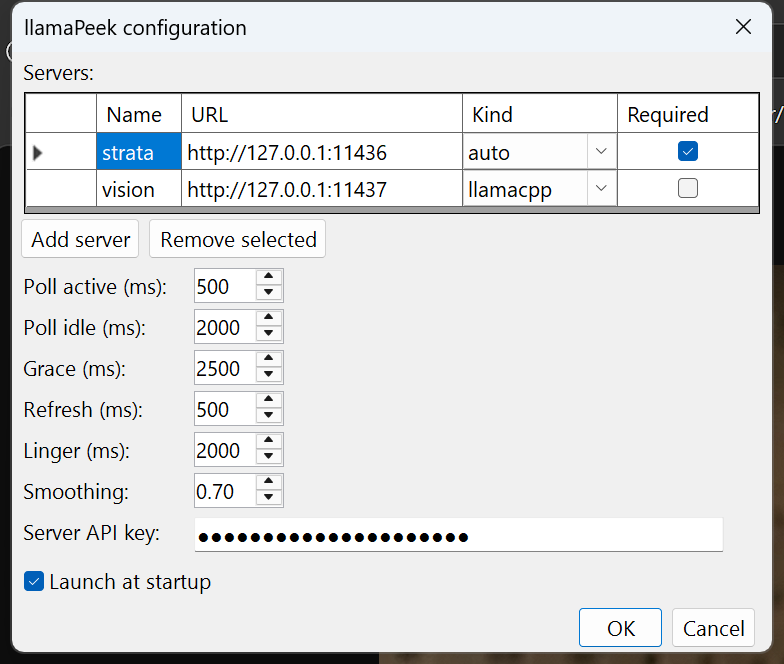
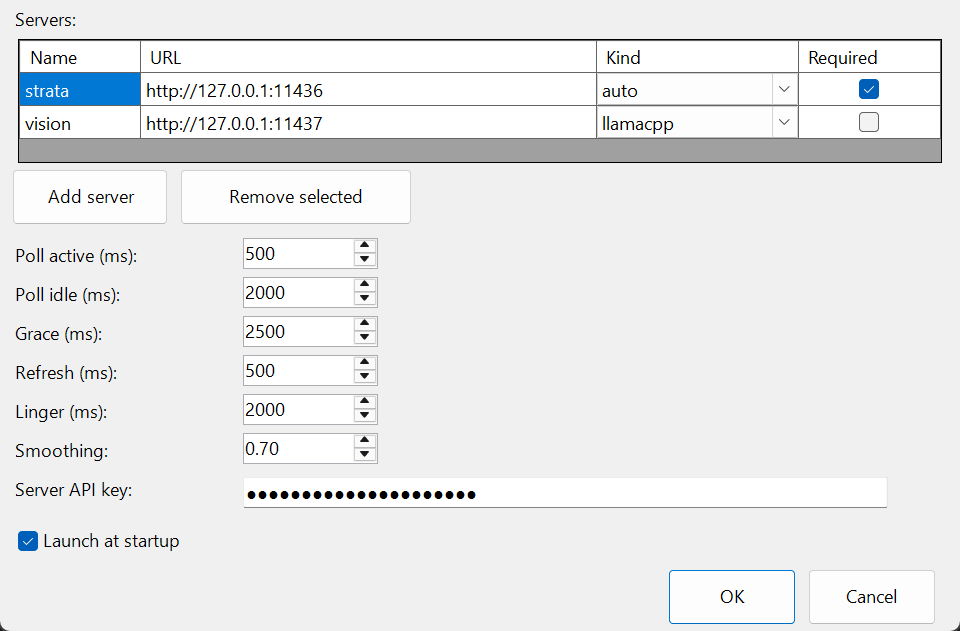
0.1.1: config dialog DPI scaling, grid full-width no clipping, content-sized 640px; sandbox registry tests

Changed region(s): [[0.0, 0.0, 1.0, 1.0]]

diff --git a/src/LlamaPeek.Tray/SettingsForm.cs b/src/LlamaPeek.Tray/SettingsForm.cs
@@ -20,6 +20,13 @@ public sealed class SettingsForm : Form
     private readonly CheckBox _startup = new()
     { Text = "Launch at startup", AutoSize = true, Margin = new Padding(4, 8, 0, 4) };
 
+    private readonly TableLayoutPanel _gridPanel = new()
+    {
+        Dock = DockStyle.Fill,
+        ColumnCount = 1,
+        Margin = new Padding(0),
+    };
+
     public SettingsForm(AppSettings s, string? apiKey)
     {
         Text = "llamaPeek configuration";
@@ -27,13 +34,21 @@ public sealed class SettingsForm : Form
         MaximizeBox = false; MinimizeBox = false;
         StartPosition = FormStartPosition.CenterScreen;
         Font = new Font("Segoe UI", 9f);
-        // Fixed dialog at design size — AutoScaleMode.Font scales it to the
-        // runtime DPI exactly once (do NOT pre-multiply by DeviceDpi: that
-        // double-scales and leaves dead space). The percent grid row absorbs
-        // any slack, so no dead space appears under the buttons.
-        ClientSize = new Size(760, 600);
-        AutoScroll = true;   // safety net if a DPI/font combo overflows
-        _apiKey.Text = apiKey ?? "";
+        // DPI scaling: baseline is 96dpi (assigned at the END of the ctor,
+        // after all controls exist), so every size, margin and column below
+        // is multiplied by DeviceDpi/96 exactly once. AutoScaleMode.Font
+        // cannot be used: its baseline is captured at the *current* DPI,
+        // giving factor 1.0 — fonts scaled, layout stayed at design pixels.
+        AutoScaleMode = AutoScaleMode.Dpi;
+        // Design size at 96dpi, sized to content: the 12 AutoSize rows need
+        // ~405px, so 440 leaves a modest grid expansion instead of a huge
+        // percent-row balloon at high DPI.
+        ClientSize = new Size(760, 440);
+        // No AutoScroll: the dialog is FixedDialog and content-sized, and
+        // AutoScroll clips the layout (grid flush to the frame) when the
+        // content minimum width exceeds the client by a few pixels.
+        _existingKey = apiKey ?? "";
+        _apiKey.Text = _existingKey;
 
         BuildGrid(s.Servers);
         _pollActive.Value = s.PollActiveMs;
@@ -51,13 +66,10 @@ public sealed class SettingsForm : Form
             Padding = new Padding(8, 4, 8, 4),
             ColumnCount = 2,
         };
-        root.ColumnStyles.Add(new ColumnStyle(SizeType.Absolute, 170));
+        root.ColumnStyles.Add(new ColumnStyle(SizeType.Absolute, 150));
         root.ColumnStyles.Add(new ColumnStyle(SizeType.Percent, 100));
         // Row styles are indexed by row number — declare every row explicitly.
         for (int i = 0; i < 12; i++) root.RowStyles.Add(new RowStyle(SizeType.AutoSize));
-        // Grid row takes ALL slack (Percent), so any height surplus lands inside
-        // the table, not as dead space under the buttons.
-        root.RowStyles[1] = new RowStyle(SizeType.Percent, 100);
         int row = 0;
 
         var head = Head("Servers:");
@@ -65,19 +77,14 @@ public sealed class SettingsForm : Form
         root.SetColumnSpan(head, 2);
         root.Controls.Add(head, 0, row++);
 
-        // Grid + its buttons share one percent row: the grid's MinimumSize
+        // Grid + its buttons share one row: the grid's MinimumSize
         // shrinks the grid inside this panel, never clipping the buttons.
-        var gridPanel = new TableLayoutPanel
-        {
-            Dock = DockStyle.Fill,
-            ColumnCount = 1,
-            Margin = new Padding(0),
-        };
-        gridPanel.RowStyles.Add(new RowStyle(SizeType.Percent, 100));
-        gridPanel.RowStyles.Add(new RowStyle(SizeType.AutoSize));
+        _gridPanel.MinimumSize = new Size(0, _gridRowsHeight + 34);  // grid rows + button strip
+        _gridPanel.RowStyles.Add(new RowStyle(SizeType.Percent, 100));
+        _gridPanel.RowStyles.Add(new RowStyle(SizeType.AutoSize));
 
         _grid.Margin = new Padding(4, 2, 4, 2);
-        gridPanel.Controls.Add(_grid, 0, 0);
+        _gridPanel.Controls.Add(_grid, 0, 0);
 
         var gridButtons = new FlowLayoutPanel { AutoSize = true, Margin = new Padding(0, 2, 0, 6) };
         gridButtons.Controls.Add(MakeButton("Add server",
@@ -87,10 +94,10 @@ public sealed class SettingsForm : Form
             if (_grid.CurrentRow is not null && !_grid.CurrentRow.IsNewRow)
                 _grid.Rows.Remove(_grid.CurrentRow);
         }));
-        gridPanel.Controls.Add(gridButtons, 0, 1);
+        _gridPanel.Controls.Add(gridButtons, 0, 1);
 
-        root.SetColumnSpan(gridPanel, 2);
-        root.Controls.Add(gridPanel, 0, row++);
+        root.SetColumnSpan(_gridPanel, 2);
+        root.Controls.Add(_gridPanel, 0, row++);
 
         void AddNumRow(string label, NumericUpDown num)
         {
@@ -135,26 +142,90 @@ public sealed class SettingsForm : Form
         Controls.Add(root);
         CancelButton = cancel;
         AcceptButton = ok;
+
+        // Scale the finished tree once (96dpi baseline), THEN size the form:
+        // PreferredSize is now measured in runtime pixels on the scaled tree,
+        // so no division is needed and nothing can double-scale.
+        AutoScaleDimensions = new SizeF(96F, 96F);
+        ClientSize = new Size(
+            (int)Math.Round(640F * DeviceDpi / 96F),   // 640 design px
+            root.PreferredSize.Height);
+    }
+
+    /// <summary>
+    /// Self-correcting width: after the form is shown, the live-DPI layout is
+    /// final (handles created, fonts measured). If the grid's right edge sits
+    /// closer than 16px to the client edge — the Fill columns could not shrink
+    /// enough at this DPI — widen the form so every column, including
+    /// "Required", is fully readable at any Windows scaling (100–250%).
+    /// </summary>
+    protected override void OnShown(EventArgs e)
+    {
+        base.OnShown(e);
+
+        float f = DeviceDpi / 96f;
+
+        // The grid (Dock=Fill) kept a stale 1104px width from Fill mode,
+        // overflowing its 936px panel and the form. Un-dock and set explicit
+        // bounds: panel width minus margins.
+        _grid.Dock = DockStyle.None;
+        _grid.Anchor = AnchorStyles.Top | AnchorStyles.Left | AnchorStyles.Right;
+        _grid.SetBounds(_grid.Left, _grid.Top,
+            _gridPanel.ClientSize.Width - 12, _grid.Height);
+
+        // Columns Fill the grid width (no grey band on the right; Fill can
+        // shrink to MinimumWidth so no clipping). Rows/headers get compact
+        // DPI-scaled heights so cadence matches the numeric rows.
+        _grid.AutoSizeColumnsMode = DataGridViewAutoSizeColumnsMode.Fill;
+        _grid.RowTemplate.Height = (int)Math.Round(22 * f);
+        _grid.ColumnHeadersHeightSizeMode = DataGridViewColumnHeadersHeightSizeMode.DisableResizing;
+        _grid.ColumnHeadersHeight = (int)Math.Round(22 * f);
+        foreach (DataGridViewRow r in _grid.Rows) r.Height = _grid.RowTemplate.Height;
+        _gridPanel.PerformLayout();
+
+        // Belt: if the grid's right edge still exceeds the client (e.g. a
+        // font renders wider), widen the form so nothing is clipped.
+        var gridRect = _grid.RectangleToScreen(_grid.ClientRectangle);
+        int need = RectangleToClient(gridRect).Right + 16;
+        if (need > ClientSize.Width)
+            ClientSize = new Size(need, ClientSize.Height);
     }
 
     private void BuildGrid(List<ServerConfig> servers)
     {
         _grid.Dock = DockStyle.Fill;
-        _grid.MinimumSize = new Size(0, 120);   // percent row may shrink, grid may not
         _grid.AllowUserToAddRows = false;
-        _grid.AutoSizeColumnsMode = DataGridViewAutoSizeColumnsMode.Fill;
+        _grid.RowHeadersVisible = false;                 // no leading selector column
+        _grid.ScrollBars = ScrollBars.Vertical;           // explicit widths: no h-scroll
+        // Explicit DPI-scaled widths (set in OnShown) instead of Fill mode:
+        // Fill's preferred width is unstable and pushed the form past its
+        // design width. Design widths sum to 466px → fits the 640px dialog.
+        _grid.AutoSizeColumnsMode = DataGridViewAutoSizeColumnsMode.None;
         // Typed value in the Kind combo (e.g. "xyz") raises DataError; the
         // default handler shows a raw exception dialog. Swallow and revert.
         _grid.DataError += (_, e) => e.ThrowException = false;
-        _grid.Columns.Add(new DataGridViewTextBoxColumn { HeaderText = "Name", FillWeight = 12 });
-        _grid.Columns.Add(new DataGridViewTextBoxColumn { HeaderText = "URL", FillWeight = 40 });
+        // Fill mode can only shrink columns to their MinimumWidth (default
+        // 22+, combo columns more). Sum of minima exceeded the grid width at
+        // high DPI, so with no h-scroll the Required column clipped. Low
+        // minima let Fill always fit every column.
+        _grid.Columns.Add(new DataGridViewTextBoxColumn { HeaderText = "Name", FillWeight = 12, MinimumWidth = 40 });
+        _grid.Columns.Add(new DataGridViewTextBoxColumn { HeaderText = "URL", FillWeight = 45, MinimumWidth = 60 });
         _grid.Columns.Add(new DataGridViewComboBoxColumn
-        { HeaderText = "Kind", FillWeight = 22, Items = { "auto", "llamacpp", "strata" } });
+        { HeaderText = "Kind", FillWeight = 20, MinimumWidth = 50, Items = { "auto", "llamacpp", "strata" } });
         _grid.Columns.Add(new DataGridViewCheckBoxColumn
-        { HeaderText = "Required", FillWeight = 20 });
+        { HeaderText = "Required", FillWeight = 14, MinimumWidth = 40 });
         foreach (var s in servers)
             _grid.Rows.Add(s.Name, s.Url, s.Kind.ToString().ToLowerInvariant(), s.RequiresModel);
+
+        // Height that fits the rows exactly, in DESIGN pixels (the grid's
+        // handle is not created in the ctor, so row/header template heights
+        // are the design 23px; the form's AutoScale pass scales this
+        // MinimumSize by DeviceDpi/96 along with everything else).
+        _gridRowsHeight = 23 + 23 * (_grid.Rows.Count + 1) + 6;
     }
+
+    private int _gridRowsHeight = 120;
+    private readonly string _existingKey;   // key as loaded at dialog open
 
     private static Label Head(string text) =>
         new() { Text = text, AutoSize = true, Margin = new Padding(0, 5, 0, 0) };
@@ -227,6 +298,7 @@ public sealed class SettingsForm : Form
             return;
         }
 
+        // Warn when the bearer token would travel in cleartext.
         // Warn when the bearer token would travel in cleartext.
         var key = _apiKey.Text.Trim();
         if (key.Length > 0 && servers.Any(s => s.Url.StartsWith("http://", StringComparison.OrdinalIgnoreCase)))

diff --git a/src/LlamaPeek.Core/RegistryStore.cs b/src/LlamaPeek.Core/RegistryStore.cs
@@ -13,7 +13,10 @@ public static class RegistryStore
 {
     public const string RunKeyPath =
         @"Software\Microsoft\Windows\CurrentVersion\Run";
-    public const string AppKeyPath = @"Software\llamaPeek";
+    // Test hook: unit tests point this at HKCU\Software\llamaPeek-test so a
+    // test run can never clobber the user's live configuration. Production
+    // code never changes it.
+    public static string AppKeyPath { get; set; } = @"Software\llamaPeek";
     public const string RunValueName = "llamaPeek";
 
     public static AppSettings Load()

diff --git a/tests/LlamaPeek.Tests/BackoffAndRegistryTests.cs b/tests/LlamaPeek.Tests/BackoffAndRegistryTests.cs
@@ -23,8 +23,15 @@ public class BackoffTests
     }
 }
 
-public class RegistryTests
+public class RegistryTests : IDisposable
 {
+    public RegistryTests() => RegistryStore.AppKeyPath = @"Software\llamaPeek-test";
+    public void Dispose()
+    {
+        RegistryStore.DeleteAll();
+        RegistryStore.AppKeyPath = @"Software\llamaPeek";
+    }
+
     [Fact]
     public void Settings_RoundTrip()
     {

diff --git a/RELEASE_NOTES.md b/RELEASE_NOTES.md
@@ -1,0 +1,67 @@
+# llamaPeek 0.1.1
+
+Bug-fix release: the configuration dialog now renders correctly at every
+Windows display scaling (100–250%).
+
+## Fixed
+
+- **Config dialog DPI scaling** — the dialog layout no longer distorts at
+  high scaling (fonts scaled while the layout stayed at design pixels);
+  scaling is now applied once from a fixed 96dpi baseline.
+- **Server grid width** — the four columns fill the full grid width (no
+  grey band on the right) and the "Required" column is never clipped at
+  any scaling; a post-layout guard widens the dialog if a font renders
+  wider than the design.
+- **Grid row heights** scale with DPI and match the settings rows' cadence.
+- **Dialog size** — content-sized (no dead space at the bottom), width
+  trimmed to 640px.
+- **Unit tests no longer touch the live registry** — the registry
+  round-trip tests previously overwrote `HKCU\Software\llamaPeek` (and
+  deleted a stored API key) on every `dotnet test` run; they now use a
+  sandboxed key (`HKCU\Software\llamaPeek-test`).
+
+# llamaPeek 0.1.0
+
+First release. Tray-only Windows monitor for llama.cpp-compatible inference
+servers (llama.cpp, Strata, and compatible routers).
+
+## What's new
+
+- **Three live tray icons** — combined decode speed (TG, t/s), combined
+  prefill speed (PP, t/s), and prefill progress (%). Faces refresh every
+  500 ms; hover for max values and current/total tokens.
+- **Multi-server aggregation** — add any number of servers; each is polled
+  independently with auto-detection of llama.cpp (`/slots`) vs Strata
+  (`/metrics`) and exponential backoff when unreachable.
+- **Configuration dialog** — servers grid, poll cadence (active/idle),
+  grace, refresh, linger, smoothing, and launch-at-startup. Saving applies
+  immediately via an internal restart.
+- **API key security** — bearer token stored as a DPAPI (current-user) blob
+  in the registry; the dialog field is masked, copy/cut disabled, and the
+  right-click menu suppressed. Paste-in allowed.
+- **Disconnect indicator** — a red dot appears on all icons when a
+  *Required* server is unreachable.
+- **Menu** — About, Configuration, Restart, Exit, and Exit and delete
+  configuration (destructive, confirmation required, No is the default
+  button).
+
+## Download
+
+Grab `llamaPeek.exe` (single file, ~47 MB, no .NET runtime needed) from the
+assets below. Verify the download:
+
+```powershell
+Get-FileHash .\llamaPeek.exe -Algorithm SHA256
+```
+
+Compare against `SHA256SUMS.txt`.
+
+## Known limitations
+
+- Windows tray icons are 16 px (scaled by DPI); the faces are as large as
+  Windows allows.
+- Tray tooltips are a snapshot at pop-up time — move the mouse away and
+  re-hover for fresh values.
+- Short prefills (<8k tokens) on Strata report prompt progress only at
+  prefill end, so PP may show `--` for brief prompts.
+- No prompt text is ever read, logged, or stored — counters only.
